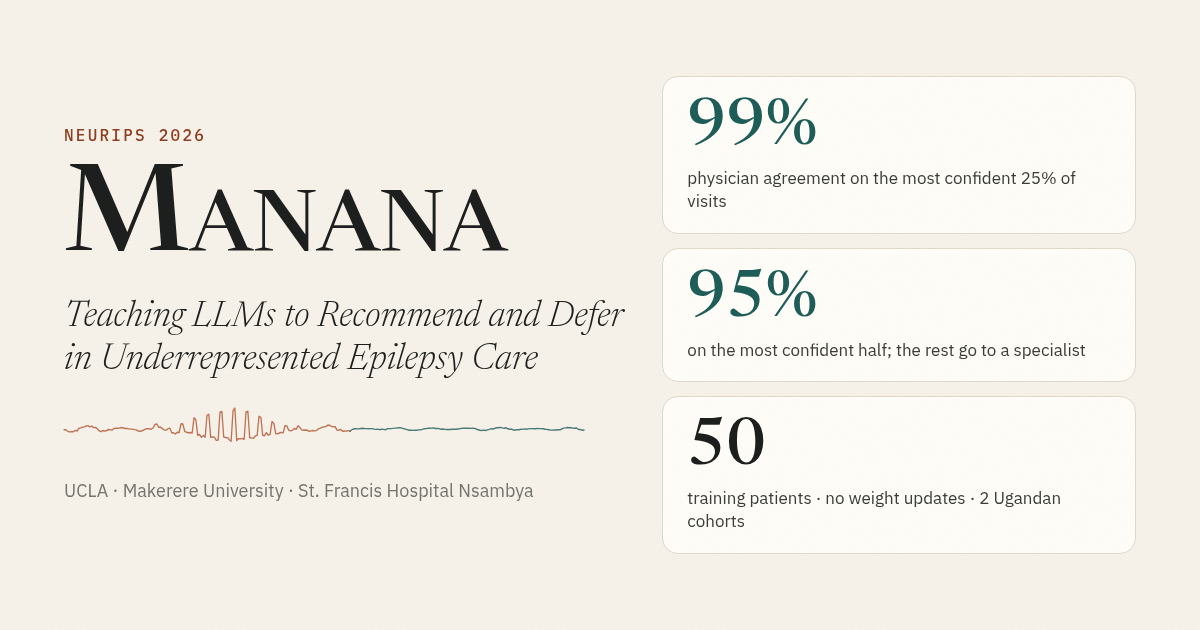
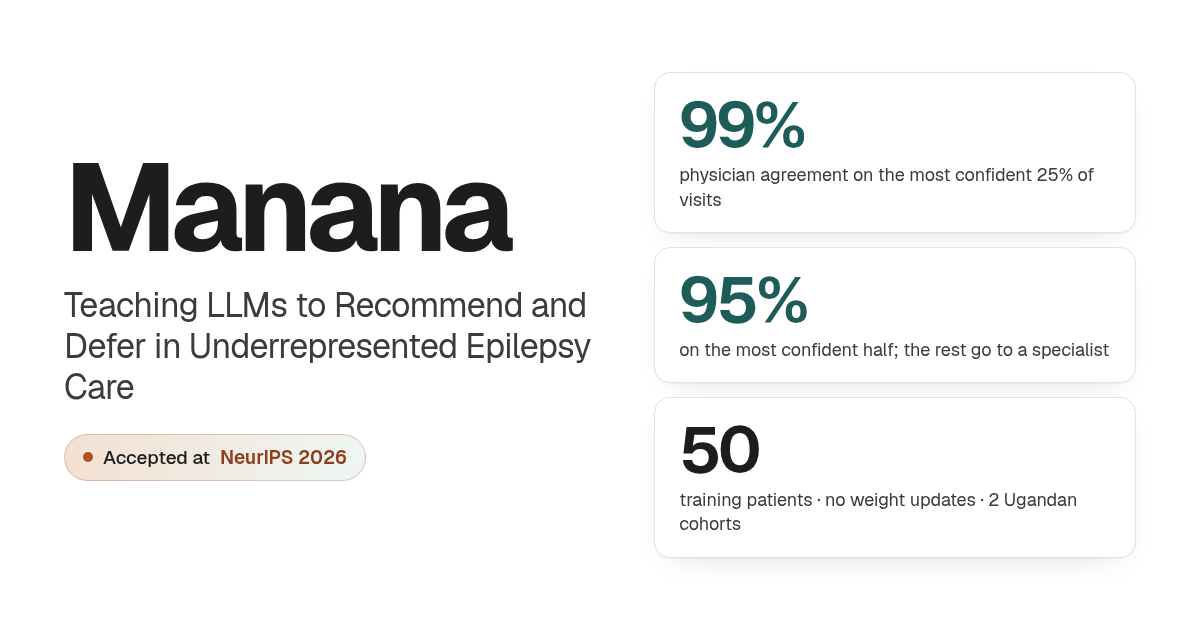
Phone camera framing for the method diagram, white social card
On phones the diagram pans and zooms to the active stage so labels
stay legible; inactive parts are slightly more visible; the social
preview image matches the white Geist design.

diff --git a/script.js b/script.js
@@ -331,7 +331,29 @@
       steps.forEach((s, k) => s.classList.toggle('on', k === i));
       dots.forEach((d, k) => { d.classList.toggle('on', k === i); d.classList.toggle('done', k < i); });
       cap.innerHTML = `<h3>${i + 1}. ${steps[i].querySelector('h3').textContent}</h3><p>${steps[i].querySelector('p').innerHTML}</p>`;
+      frame();
     };
+    // phones: pan/zoom the diagram to the active part so text stays legible
+    const svgEl = $('.hiw-svg', hiw);
+    const FULL = [0, 0, 760, 520];
+    const CAM = [[190, 165, 420], [300, 112, 400], [540, 140, 420], [600, 236, 360], [340, 262, 650], [455, 380, 590]];
+    let vb = FULL.slice(), camRaf = 0;
+    const setVB = (b) => { vb = b; svgEl.setAttribute('viewBox', b.map(v => v.toFixed(1)).join(' ')); };
+    function frame() {
+      if (!svgEl) return;
+      const phone = !window.matchMedia('(min-width: 901px)').matches;
+      let target = FULL;
+      if (phone) { const [cx, cy, w] = CAM[cur]; const h = w * 0.8; target = [cx - w / 2, cy - h / 2, w, h]; }
+      cancelAnimationFrame(camRaf);
+      if (reduce) { setVB(target); return; }
+      const from = vb.slice(), t0 = performance.now(), D = 900;
+      const step = (now) => {
+        const t = Math.min(1, (now - t0) / D), e = t < .5 ? 4 * t * t * t : 1 - Math.pow(-2 * t + 2, 3) / 2;
+        setVB(from.map((v, k) => v + (target[k] - v) * e));
+        if (t < 1) camRaf = requestAnimationFrame(step);
+      };
+      camRaf = requestAnimationFrame(step);
+    }
     const setMode = (m) => {
       hiw.classList.toggle('mode-single', m === 'single'); hiw.classList.toggle('mode-multi', m === 'multi');
       $$('[data-mode]', hiw).forEach(b => b.setAttribute('aria-pressed', b.dataset.mode === m));
@@ -371,7 +393,7 @@
     if ('IntersectionObserver' in window) {
       new IntersectionObserver(([e]) => { onScreen = e.isIntersecting; tick(); }, { threshold: 0.35 }).observe($('.hiw-sticky', hiw));
     }
-    desktop.addEventListener('change', tick);
+    desktop.addEventListener('change', () => { frame(); tick(); });
   }
 
   /* ---------- map: Africa → Uganda zoom ---------- */

diff --git a/index.html b/index.html
@@ -38,7 +38,7 @@
 <link rel="preconnect" href="https://fonts.googleapis.com">
 <link rel="preconnect" href="https://fonts.gstatic.com" crossorigin>
 <link href="https://fonts.googleapis.com/css2?family=Geist:wght@300..800&family=Geist+Mono:wght@400;500&display=swap" rel="stylesheet">
-<link rel="stylesheet" href="style.css?v=19">
+<link rel="stylesheet" href="style.css?v=20">
 <script>
   document.documentElement.classList.add('js');
 </script>
@@ -119,7 +119,7 @@
 
 <section class="container wide sec" id="how" aria-labelledby="how-title">
   <h2 id="how-title">How Manana learns. Commit only what <em>recurs</em>.</h2>
-  <p class="lede">A Predictor, an Inspector, and an Architect turn prescription errors into readable memory. Scroll through the loop.</p>
+  <p class="lede">A Predictor, an Inspector, and an Architect turn prescription errors into readable memory, one recurring lesson at a time.</p>
   <div class="hiw" id="hiw" data-stage="0">
     <div class="hiw-fig">
       <div class="hiw-sticky">
@@ -170,7 +170,7 @@
           <g class="card c5 match"><rect x="576" y="256" width="76" height="34" rx="8"/><text x="614" y="277">lesson · v58</text></g>
           <g class="card c6"><rect x="658" y="256" width="70" height="34" rx="8"/><text x="693" y="277">lesson · v9</text></g>
         </g>
-        <text class="quorum" data-s="4" x="610" y="326">✓ 2 visits agree → commit</text>
+        <text class="quorum" data-s="4" x="575" y="326">✓ 2 visits agree → commit</text>
 
         <g class="n key" data-s="4"><rect x="200" y="210" width="150" height="76" rx="14"/><text class="nt" x="275" y="242">Architect</text><text class="ns" x="275" y="262">commits what recurs</text></g>
         <g class="n mem" data-s="4 5"><rect x="20" y="210" width="130" height="76" rx="14"/><text class="nt" x="85" y="236">Memory</text>
@@ -518,6 +518,6 @@ any information that is not needed for the decision.
 </footer>
 
 <script src="assets/map-data.js?v=1" defer></script>
-<script src="script.js?v=19" defer></script>
+<script src="script.js?v=22" defer></script>
 </body>
 </html>

diff --git a/style.css b/style.css
@@ -741,7 +741,7 @@ footer { font-size: 16px; }
 .hiw-svg .ns.left { text-anchor: start; font-size: 12px; }
 .hiw-svg .e { fill: none; stroke: #d6cfc2; stroke-width: 2; marker-end: url(#ah); transition: stroke .3s; }
 .hiw-svg .elab { font-size: 11px; font-style: italic; fill: var(--muted); }
-.hiw-svg :is(.n, .cands, .rx, .buf, .dep, .elab)[data-s] { opacity: .28; transition: opacity .45s; }
+.hiw-svg :is(.n, .cands, .rx, .buf, .dep, .elab)[data-s] { opacity: .36; transition: opacity .45s; }
 .hiw-svg .cands rect { fill: var(--teal-soft); stroke: var(--teal); stroke-width: 1; }
 .hiw-svg .cands text { font-size: 10px; font-weight: 600; fill: var(--teal-ink); text-anchor: middle; }
 .hiw-svg .rx rect { fill: var(--ink); }
@@ -820,4 +820,8 @@ footer { font-size: 16px; }
 @media (prefers-reduced-motion: reduce) {
   .hiw .hiw-svg .e { animation: none !important; }
   .hiw .hiw-svg .bars :is(.b1, .b2, .b3) { animation: none !important; }
+}
+
+@media (max-width: 900px) {
+  .hiw-svg { aspect-ratio: 5 / 4; }
 }
